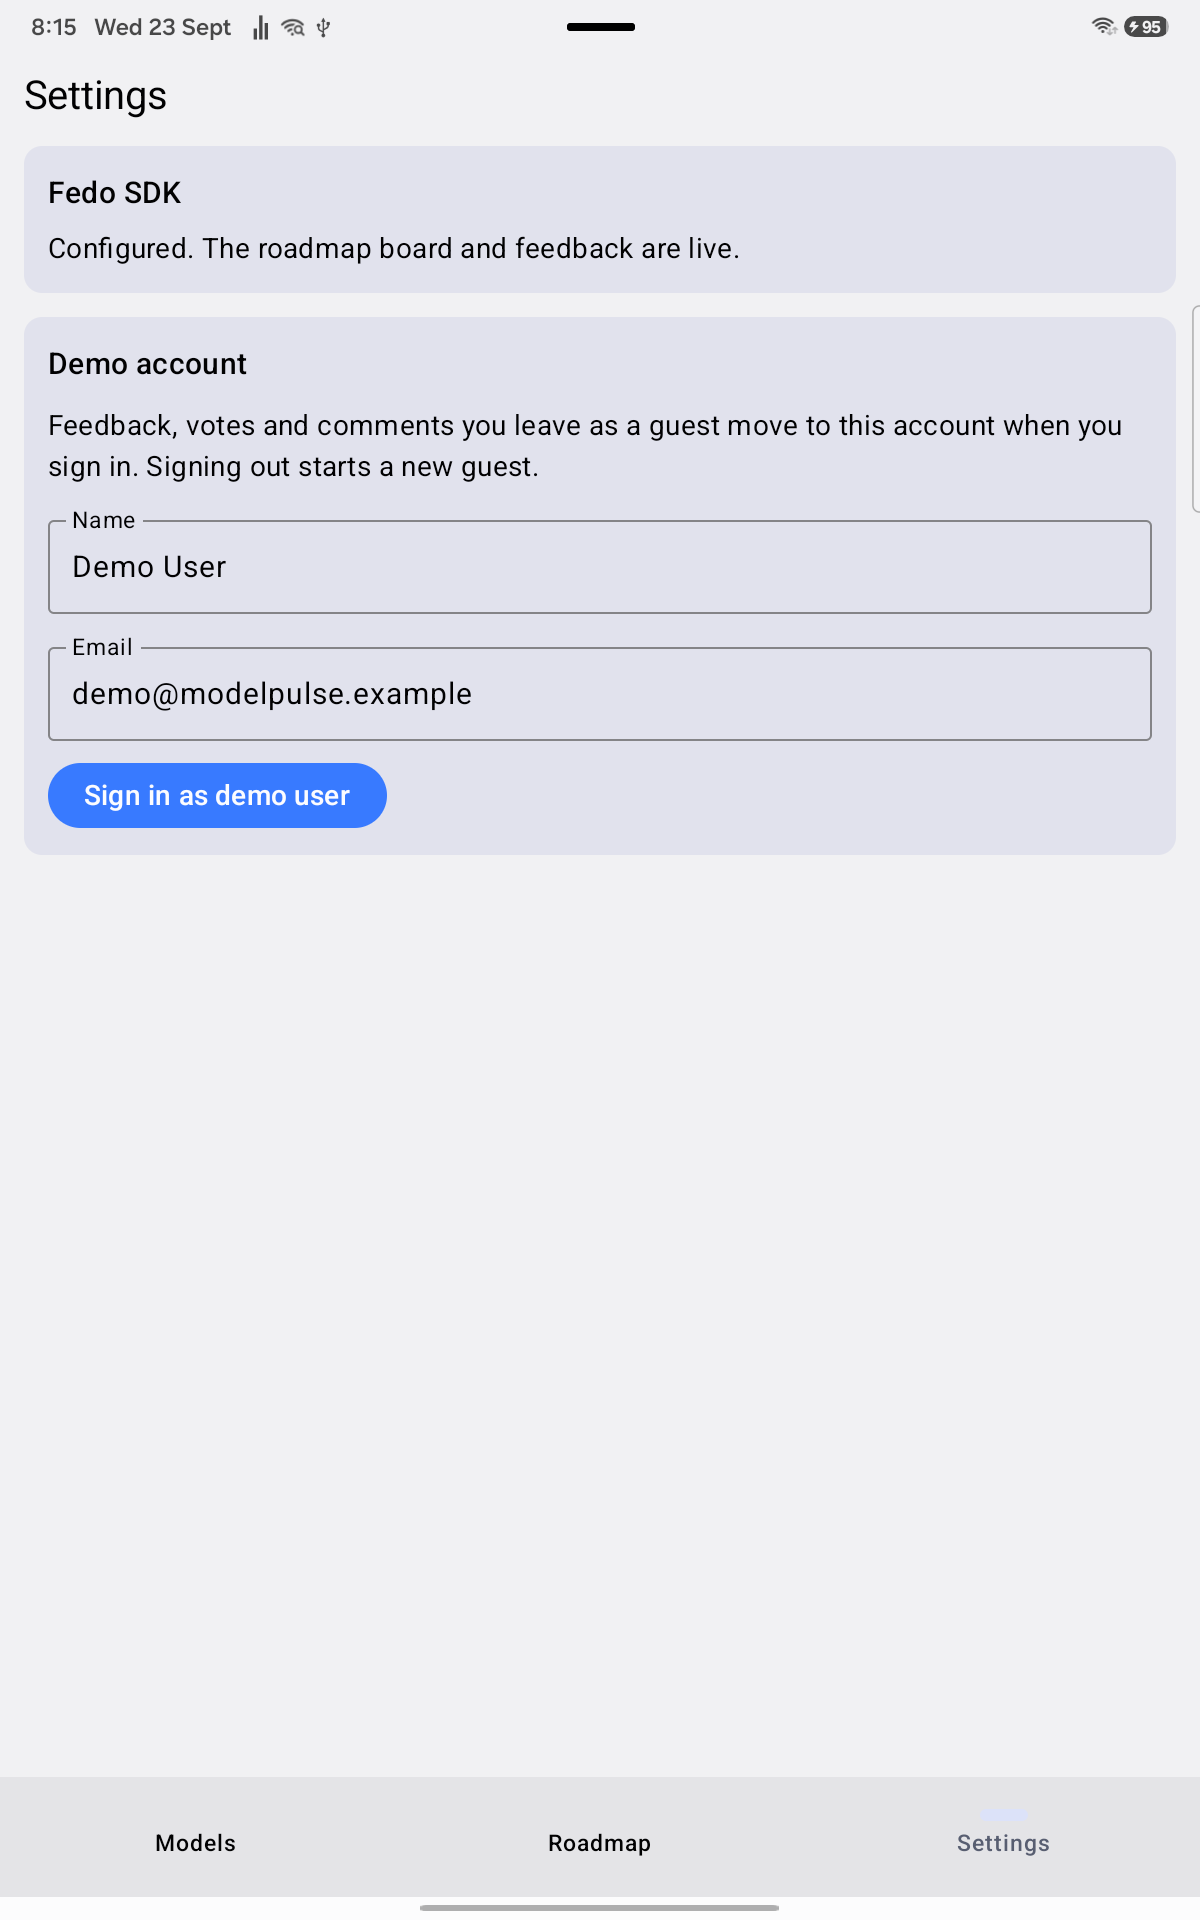
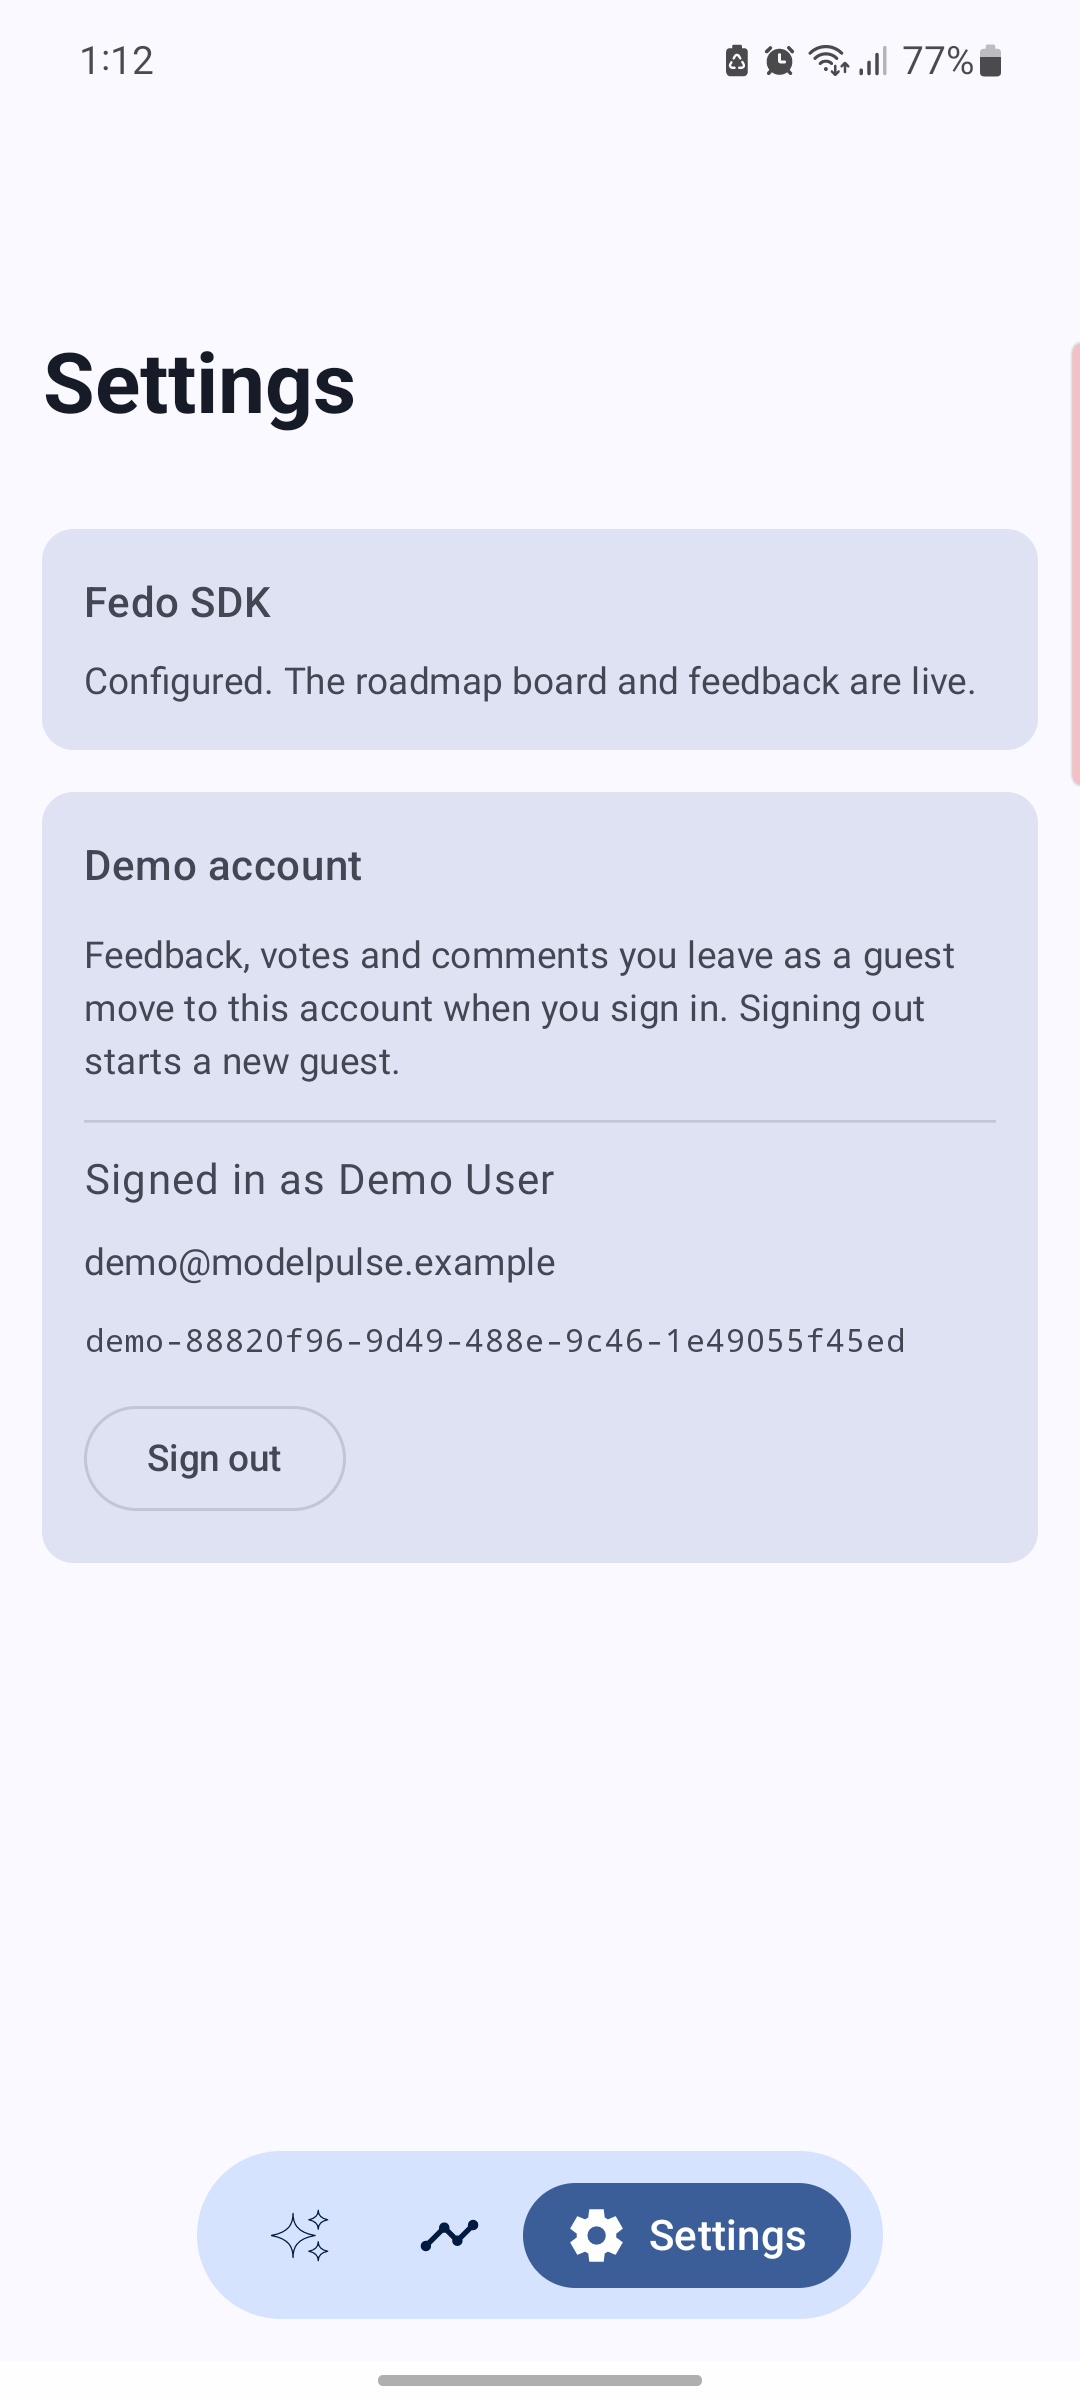
Update README screenshots from phone

diff --git a/README.md b/README.md
@@ -33,7 +33,7 @@ Single `:app` module. Compose, Koin, OkHttp, kotlinx.serialization and Navigatio
 
 </details>
 
-Captured on a tablet with a Fedo API key configured. The colours come from the
+Captured on a phone (Galaxy A51) with a Fedo API key configured. The colours come from the
 device wallpaper: the app uses dynamic colour on API 31+ and the Material
 baseline schemes below that, so your build will not look identical.
 

diff --git a/CHANGELOG.md b/CHANGELOG.md
@@ -139,6 +139,8 @@ contextual feedback sheet on the other.
 
 ### Changed
 
+- README screenshots retaken on a phone, dark and light, showing the unified
+  top app bars by @mabd-agent
 - `specs/architecture.md` now matches the shipped data layer: the data source
   and repository snippets compile, sorting is documented as the data source's
   job, and the mapping shows the lowercased provider slug and the id-prefix
